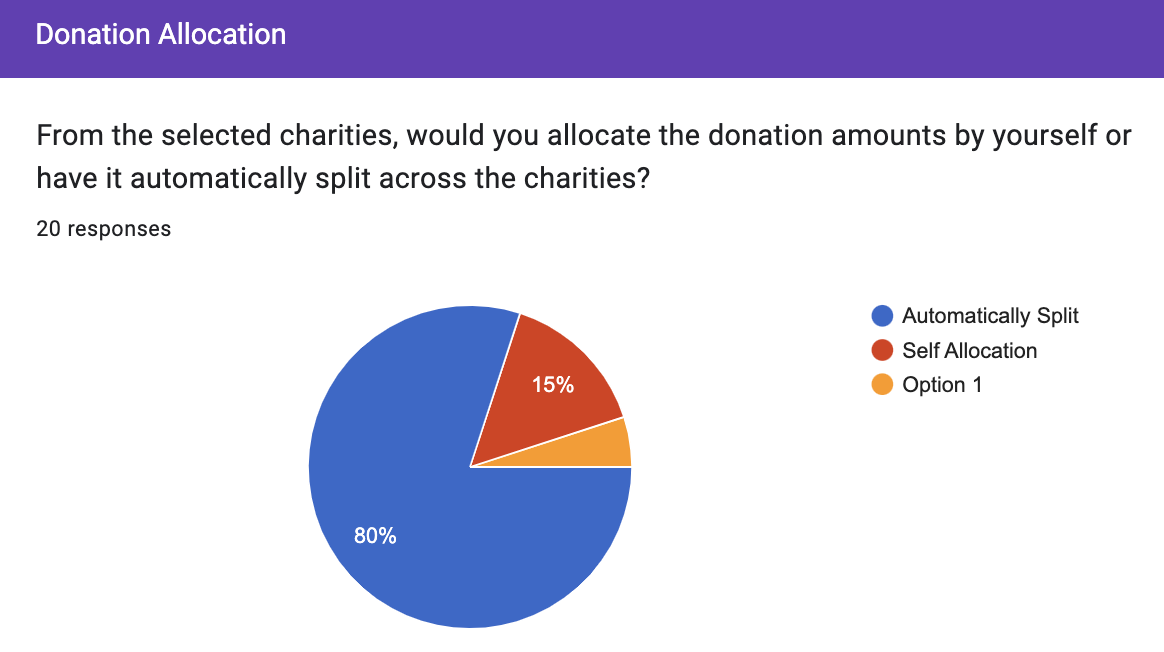
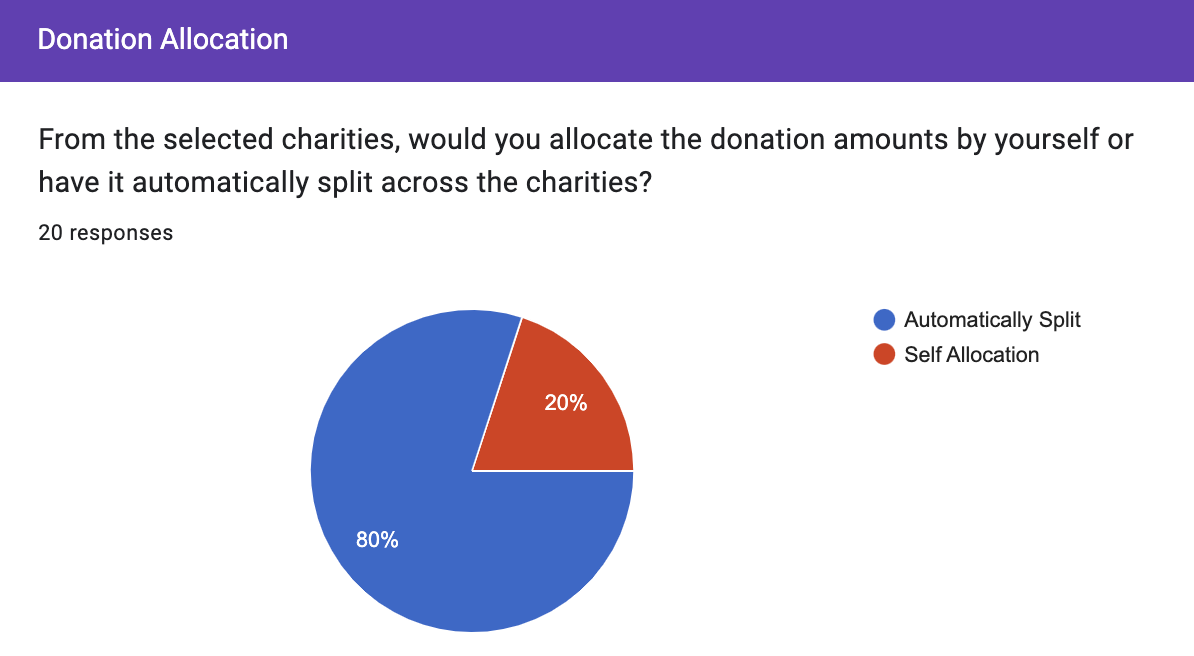
added part of results for prototype 1

diff --git a/docs/prototype/prototype-1.md b/docs/prototype/prototype-1.md
@@ -6,11 +6,16 @@ import Prototype1_1 from '../img/Prototype1_1.png';
 import Prototype1_2 from '../img/Prototype1_2.png';
 import Prototype1_3 from '../img/Prototype1_3.png';
 import Prototype1_4 from '../img/Prototype1_4.png';
+import Prototype1_Response_1 from '../img/Prototype1_Response_1.png';
+import Prototype1_Response_2 from '../img/Prototype1_Response_2.png';
+import Prototype1_Response_3 from '../img/Prototype1_Response_3.png';
+import Prototype1_Response_4 from '../img/Prototype1_Response_4.png';
+import Prototype1_Response_5 from '../img/Prototype1_Response_5.png';
 
 # Prototype 1 
 
 ## Testing the Donation Process Idea
-After developing and analyzing the storyboard, the team is ready to move from concept to reality. The next stage of the designing process is to create the first prototype of the CharitAble application. The aim of the first prototype is to test the idea of the donation process with real users and gather feedbacks from them. To do so, the team created the prototype with google forms which consists of the entire donation process where users are required to answer several questions. At this stage, the team did not focus on designing the prototype. The first prototype serves as a proof-of-concept to validate the idea and gather feedback from potential users. Moreover, the team's plan is to conduct thorough testing of the idea before proceeding with the detailed design phase.
+After developing and analyzing the storyboard, the team is ready to move from concept to reality. The next stage of the designing process is to create the first prototype of the CharitAble application. The aim of the first prototype is to test the idea of the donation process with real users and gather feedbacks from them. To do so, the team created the prototype with google forms which consists of the entire donation process where users are required to answer several questions. At this stage, the team did not focus on designing the prototype. The first prototype serves as a proof-of-concept to validate the idea and gather feedback from potential users. Moreover, the team's plan is to test the idea with 20 user before proceeding with the detailed design phase.
 ### Display of Prototype
 The prototype below follows a sequential reading order, beginning from the top left corner and progressing horizontally to the top right corner. From there, it continues downwards in a left-to-right direction until reaching the bottom right corner.
 
@@ -23,6 +28,25 @@ The prototype below follows a sequential reading order, beginning from the top l
 <img src={Prototype1_4} style={{width: 410, height:300}}/>
 
 ## Results of Prototype
+### Percentage of Cash Flow
+<img src={Prototype1_Response_1} style={{width: 500, paddingBottom:20}}/>
+
+Based on the response gathered from 20 users, it was found that over 50% of them are keen to donate 25% of their cash flow. The team intends to incorporate this valuable insight into the development of the application and future prototypes.  
+
+### Charities of Interest
+<img src={Prototype1_Response_2} style={{width: 500, paddingBottom:20}}/>
+
+The survey revealed that "Feeding Britain" and "Children in Need" were the top two chosen charities, with 70% and 40% of users expressing interest in them, respectively. Since these charities were pre-selected based on the top spending categories, it is evident that users are enthusiastic about donating to these suggested charities. The team is encouraged by this response and believes that recommending charities to users based on their preferences will assist them in their decision-making process.
+
+### Donation Allocation
+<img src={Prototype1_Response_3} style={{width: 500, paddingBottom:20}}/>
+
+### Rating of Donation Process Idea
+<img src={Prototype1_Response_4} style={{width: 500, paddingBottom:20}}/>
+
+### Feedbacks for Improvement
+<img src={Prototype1_Response_5} style={{width: 500, paddingBottom:20}}/>
+
 Lorem ipsum dolor sit amet, consectetur adipiscing elit, sed do eiusmod tempor incididunt ut labore et dolore magna aliqua. Netus et malesuada fames ac turpis egestas maecenas. Non consectetur a erat nam. Ac tortor dignissim convallis aenean et. Proin sed libero enim sed faucibus turpis in eu mi. Auctor eu augue ut lectus arcu bibendum. Placerat in egestas erat imperdiet sed euismod nisi. Ultrices gravida dictum fusce ut placerat orci nulla. Erat imperdiet sed euismod nisi porta lorem mollis aliquam. Tincidunt tortor aliquam nulla facilisi cras fermentum. Pellentesque nec nam aliquam sem et tortor consequat id porta. Imperdiet sed euismod nisi porta. Vulputate eu scelerisque felis imperdiet proin fermentum leo. Pellentesque habitant morbi tristique senectus. Sapien eget mi proin sed. Risus viverra adipiscing at in tellus integer feugiat scelerisque varius.
 
 Vel pharetra vel turpis nunc eget. Aliquam eleifend mi in nulla posuere sollicitudin aliquam. Libero id faucibus nisl tincidunt eget nullam. Neque vitae tempus quam pellentesque nec nam aliquam sem et. Pellentesque sit amet porttitor eget dolor morbi non arcu. Nulla facilisi nullam vehicula ipsum a arcu cursus vitae. Iaculis nunc sed augue lacus viverra vitae congue eu consequat. Dictum sit amet justo donec enim diam vulputate ut. Elementum integer enim neque volutpat ac tincidunt vitae. Tristique senectus et netus et malesuada. Amet tellus cras adipiscing enim. Suspendisse sed nisi lacus sed viverra tellus in. Dignissim diam quis enim lobortis.
